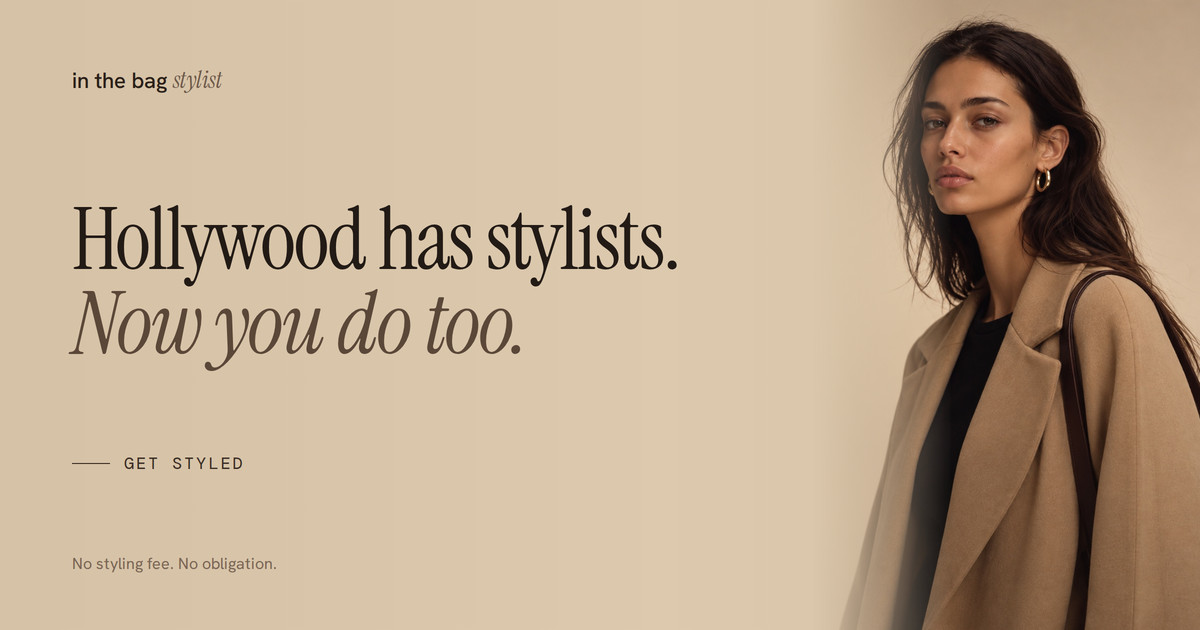
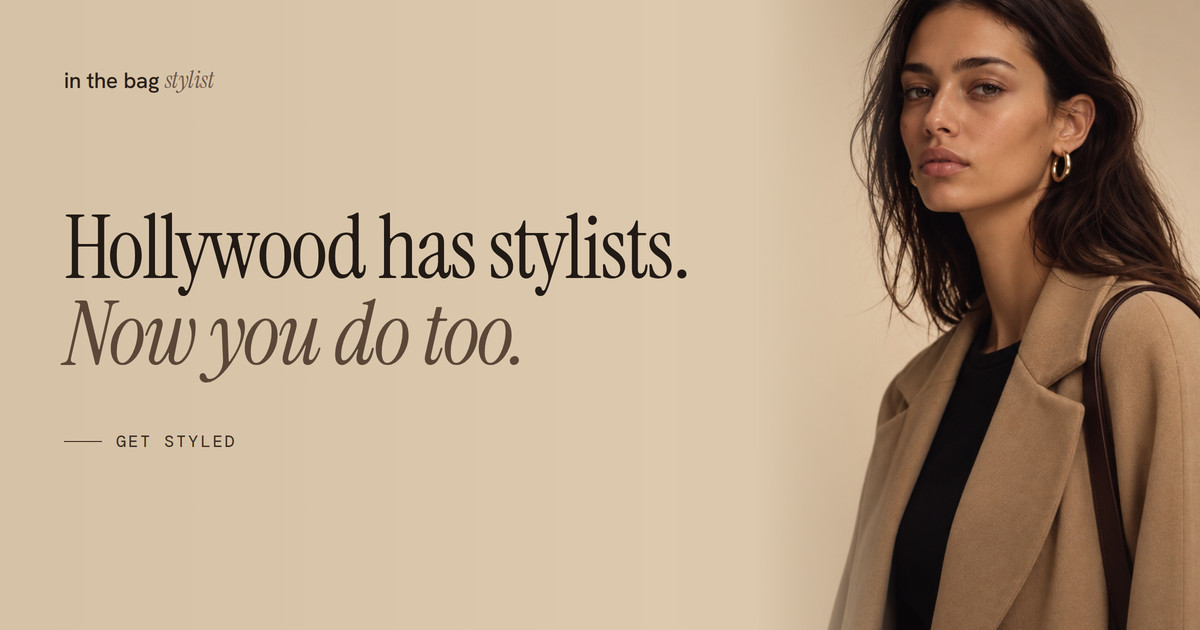
Tighter link-preview image
Claude-Session: https://claude.ai/code/session_01NcxpXd1ZZN8XkELztTU8uo

diff --git a/index.html b/index.html
@@ -15,13 +15,13 @@
 <meta property="og:title" content="in the bag · Hollywood has stylists. Now you do too.">
 <meta property="og:description" content="Hollywood styling expertise, made for real life. Get matched with an expert stylist who understands your body, your budget, your life, and what you actually need to get dressed for.">
 <meta property="og:url" content="https://noci-stylist-test.netlify.app/">
-<meta property="og:image" content="https://noci-stylist-test.netlify.app/img/og.jpg">
+<meta property="og:image" content="https://noci-stylist-test.netlify.app/img/og.jpg?v=3">
 <meta property="og:image:width" content="1200">
 <meta property="og:image:height" content="630">
 <meta name="twitter:card" content="summary_large_image">
 <meta name="twitter:title" content="in the bag · Hollywood has stylists. Now you do too.">
 <meta name="twitter:description" content="Hollywood styling expertise, made for real life. Get matched with an expert stylist who understands your body, your budget, your life, and what you actually need to get dressed for.">
-<meta name="twitter:image" content="https://noci-stylist-test.netlify.app/img/og.jpg">
+<meta name="twitter:image" content="https://noci-stylist-test.netlify.app/img/og.jpg?v=3">
 <meta name="theme-color" content="#251811">
 
 
